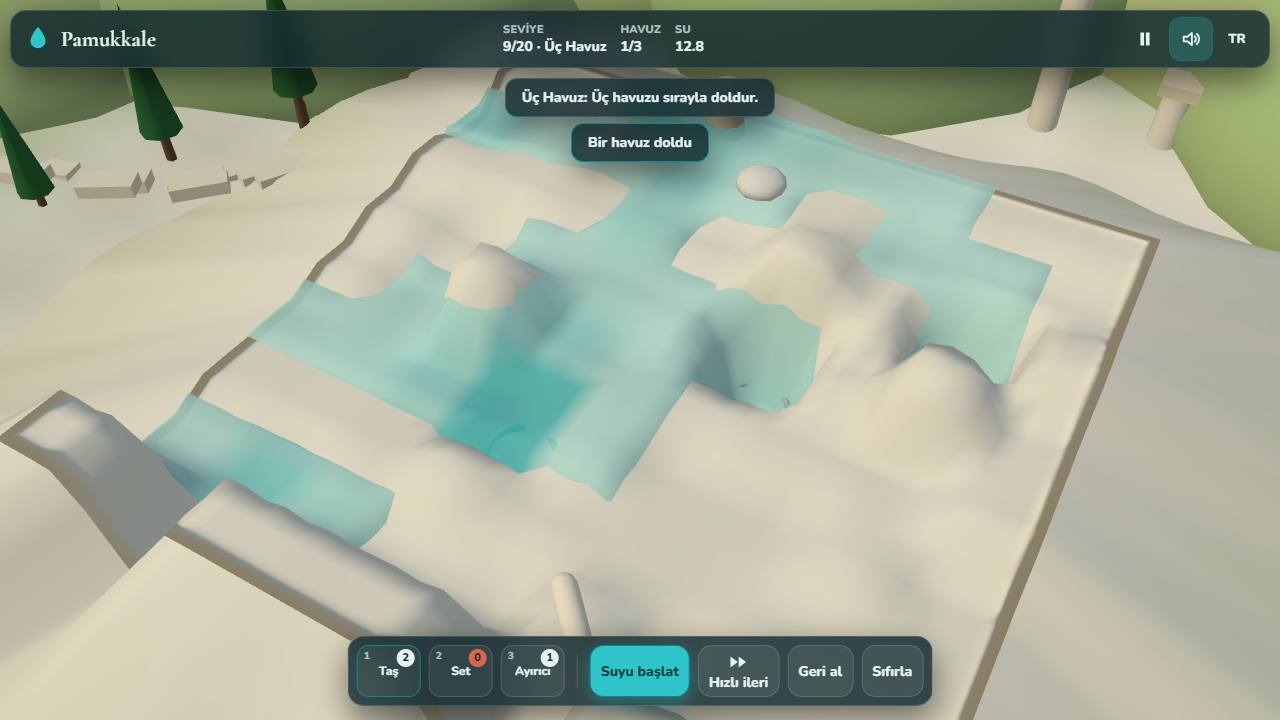
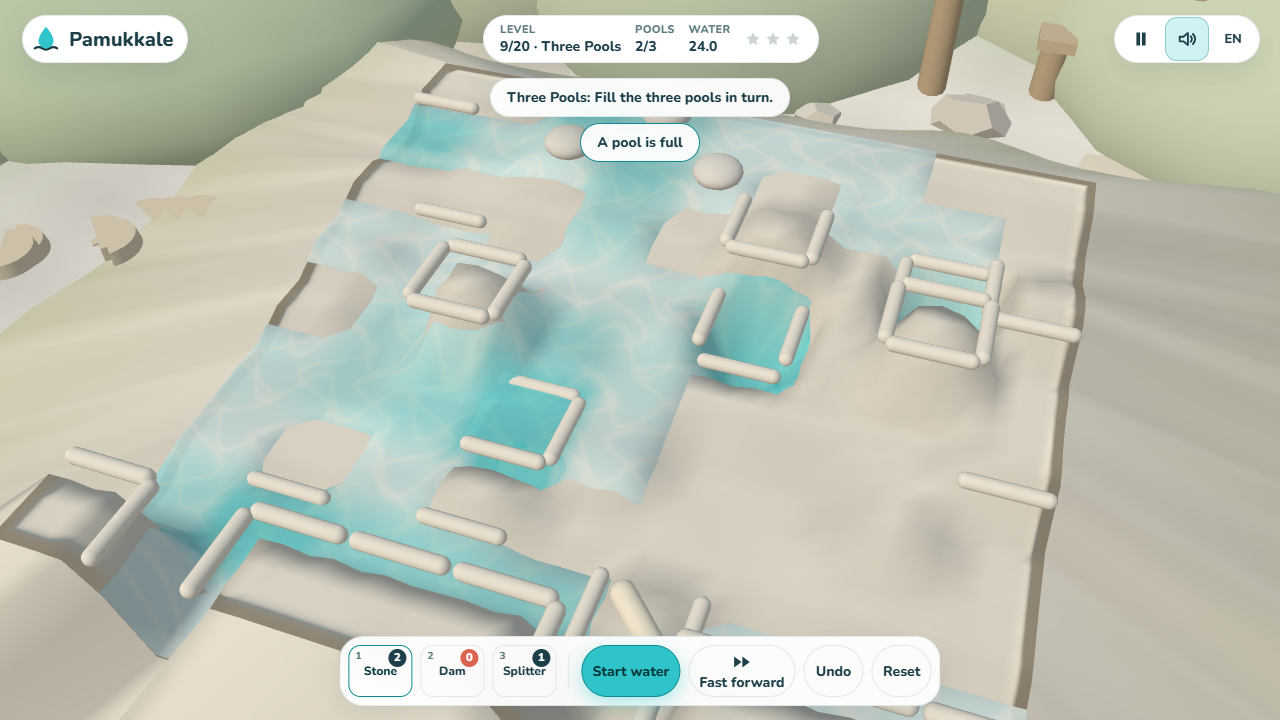
docs: redesign screenshots, before and after composite and measured numbers
Refresh the docs screenshots from the light-scheme redesign captures, add a
level 9 before and after composite, and add a Redesign section with the
measured draw calls and triangles and the bot result (20/20, 46/60, no errors).

Claude-Session: https://claude.ai/code/session_014vMYwwQ3htV8WjCni8q7av

diff --git a/README.md b/README.md
@@ -34,7 +34,7 @@
   a short solution fills every pool; `tools/solve-levels.mjs` re-checks each stored solution with the same simulation
   code.
 - **Played by a bot.** `?auto` replays each level's stored solution through the same placement function a click uses.
-  Measured: **20/20 levels, 46/60 stars**, 14-18 draw calls.
+  Measured on the redesign branch: **20/20 levels, 46/60 stars**, zero JavaScript errors, with and without `?noassets`.
 - **One file, made in code.** One `index.html` with Three.js r170 from a CDN; terrain, water and tools are procedural
   geometry, and a saz-like plucked loop, a flute line, trickling water, splashes and birdsong are synthesised with
   Web Audio.
@@ -85,6 +85,28 @@ Turkish is the default language (`L` or the **EN** toggle switches). Progress is
 
 ## Screenshots
 
+## Redesign (2026-11)
+
+**Art direction:** bright pastel travertine on a sage meadow: turquoise water with shore foam and caustic light,
+peach sunset sky, airy white cards with turquoise accents. Palette: travertine `#F5F3EE`, turquoise `#2EC4C9`,
+sunset peach `#FFC9A9`, ruin stone `#CDB89A`, sky `#BFE6FF`.
+
+- **Terraces:** capsule lips on every shelf edge with a step of 1.5 units or more, slope shading, and stepped
+  travertine ledges down the valley sides. The simulation and level data are unchanged.
+- **Scene:** pastel meadow, shrubs, boulders, a pale distant range inside the fog, lathe-turned spring bowl,
+  rounded theatre benches and ruin columns.
+- **Water and FX:** shore foam, a scrolling caustic texture, a sparkle when a tool is placed, slowly drifting clouds.
+- **UI:** white cards, pill buttons, floating HUD pills, and a layout that works on phones and short landscape screens.
+- **Language:** the default follows the browser (Turkish or English); a saved setting still wins.
+
+Before and after, same level and camera (level 9):
+
+<p align="center"><img src="docs/redesign-before-after.png" width="100%" alt="Level 9 before (left) and after (right) the redesign"></p>
+
+Measured with headless Chrome at 1280x720 on the redesign branch: draw calls 17 before, 22 after (level 9 in play);
+triangles 26k before, 48k after. Frame rate is not claimed; headless rAF is not a GPU budget. The banner, card and
+gameplay GIF still show the old look until the media pass.
+
 <table>
   <tr>
     <td width="33%"><img src="docs/01-title.png" alt="Title screen"><br><sub>Title screen</sub></td>
@@ -92,7 +114,7 @@ Turkish is the default language (`L` or the **EN** toggle switches). Progress is
     <td width="33%"><img src="docs/02-gameplay-level9.png" alt="Level 9: three pools filling in turn"><br><sub>Level 9, three pools</sub></td>
   </tr>
   <tr>
-    <td><img src="docs/04-ending.png" alt="Ending screen after the bot run with 20 of 20 levels and 46 of 60 stars, debug overlay on"><br><sub>Ending after the <code>?auto</code> run (with <code>?debug</code>)</sub></td>
+    <td><img src="docs/04-ending.png" alt="Ending screen after the bot run with 20 of 20 levels and 46 of 60 stars"><br><sub>Ending after the <code>?auto</code> run: 20/20 levels, 46/60 stars</sub></td>
     <td><img src="docs/05-phone-500x900.png" alt="Pamukkale on a phone"><br><sub>On a phone</sub></td>
     <td></td>
   </tr>
@@ -120,7 +142,7 @@ Everything is generated in code, so there are no asset files and no credits to l
 - **Simulation:** the water is a small grid automaton in plain JavaScript between the `SIM-BEGIN` and `SIM-END`
   markers in `index.html`; `tools/solve-levels.mjs` runs the same code.
 - **3D:** terrain, water and tools are procedural geometry with vertex colours, with instanced meshes for repeated
-  objects; 14-18 draw calls measured. The headless frame rate is a rAF reading, not a measured GPU budget, so no fps
+  objects; 21-22 draw calls measured in play on the redesign branch. The headless frame rate is a rAF reading, not a measured GPU budget, so no fps
   figure is claimed.
 - **Known limits:** the terraces are an approximate, plateau-style hillside and the sloped apron at the edge is a
   simplified form; level 16 uses a looser difficulty band than its neighbours.
